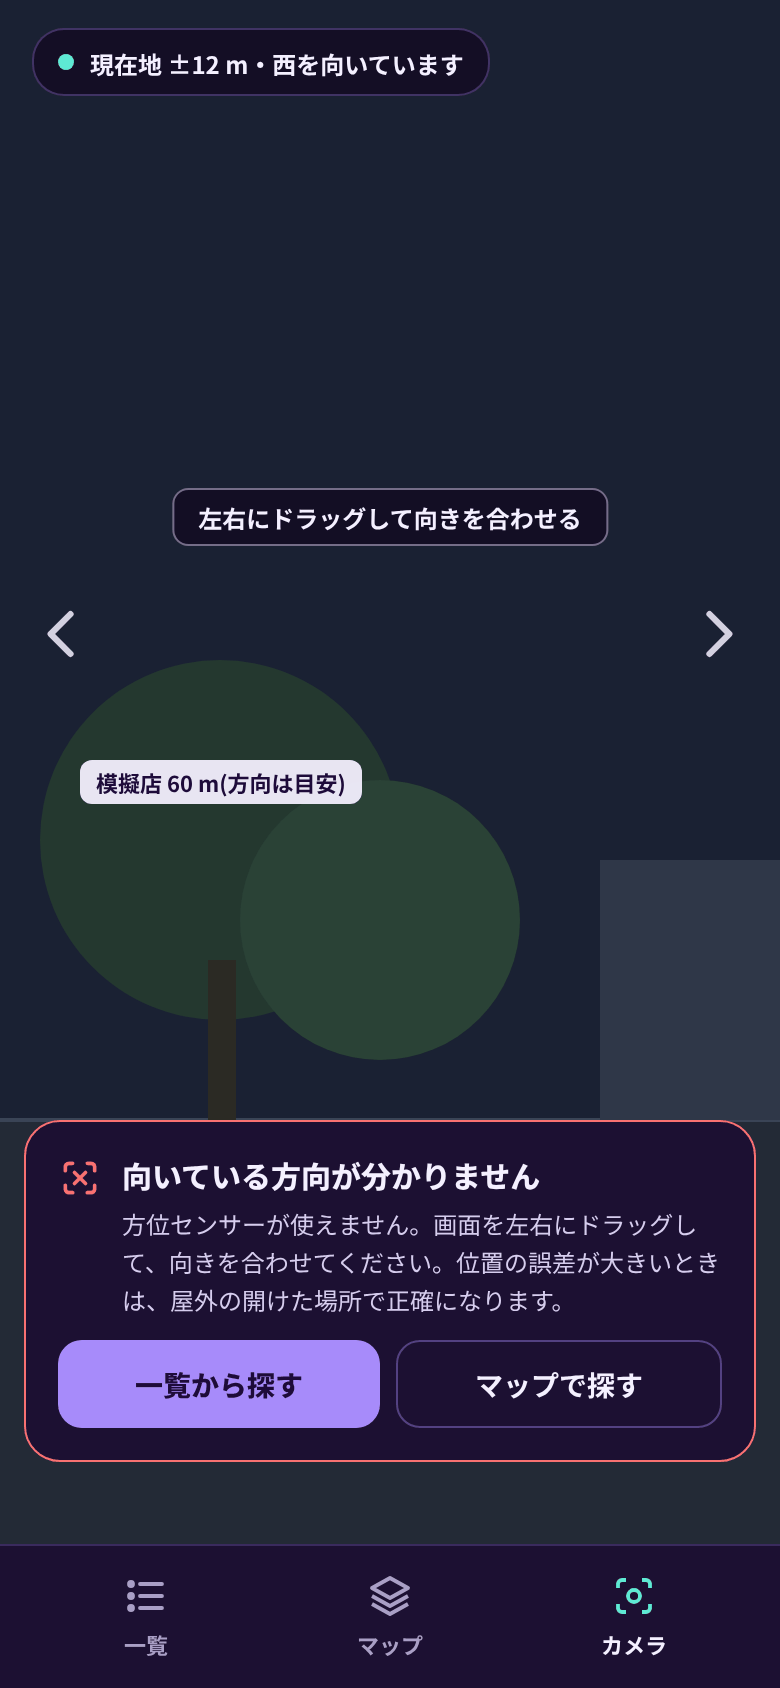
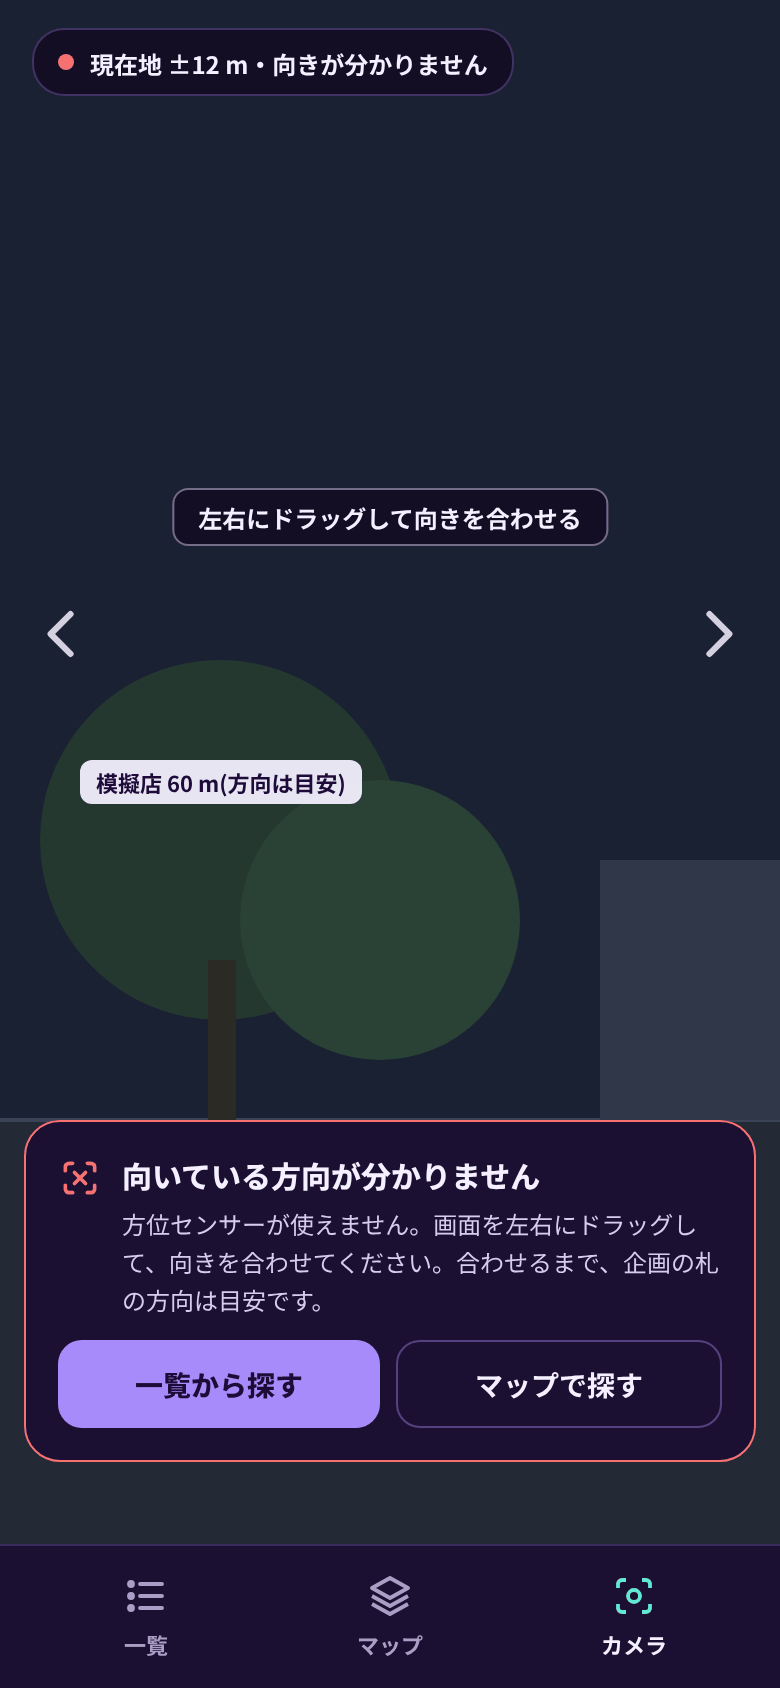
V3-c の向きの表示の矛盾を直す(ワイヤーフレーム版 43)

diff --git a/doc/screen-design/wireframe.md b/doc/screen-design/wireframe.md
@@ -1,6 +1,6 @@
 # NAsVI ワイヤーフレーム
 
-状態: 画面はチームで合意(2026-11-21)。※ の所と未決事項は、これから決める / 書き出し: 2026-11-22(版 42。カメラを GPS とコンパスの方式に、机上の点検と画面への当てはめの直しを反映)
+状態: 画面はチームで合意(2026-11-21)。※ の所と未決事項は、これから決める / 書き出し: 2026-11-22(版 43。カメラを GPS とコンパスの方式に、机上の点検と画面への当てはめの直しを反映。V3-c の向きの表示の矛盾を直した)
 
 - 画面の選び方(概念の一覧・画面一覧・画面遷移図)は [screen-selection.md](screen-selection.md)、机上の点検の結果は [desk-check.md](desk-check.md)
 - 元のデータは Claude の Design キャンバス(https://claude.ai/artifact/ARBxEgg7ybog3kZK7Qzpo2 )。このページの画像は、そこから書き出したもの。直すときはキャンバスを直し、画像を書き出し直す
